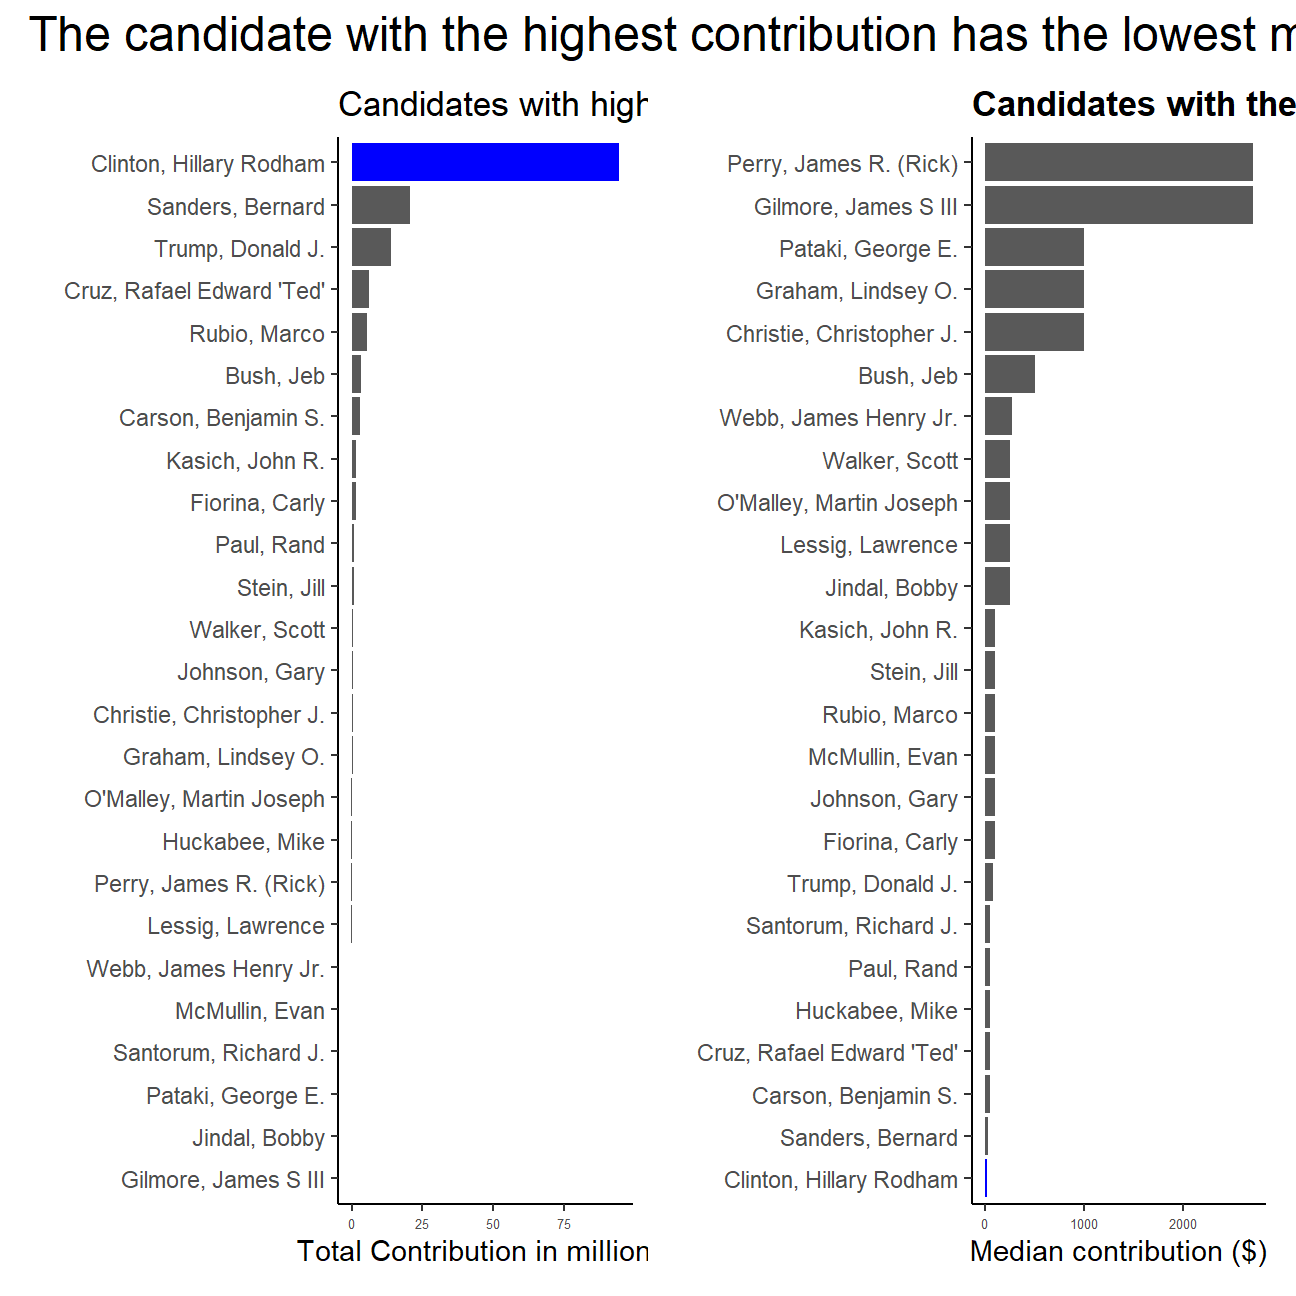
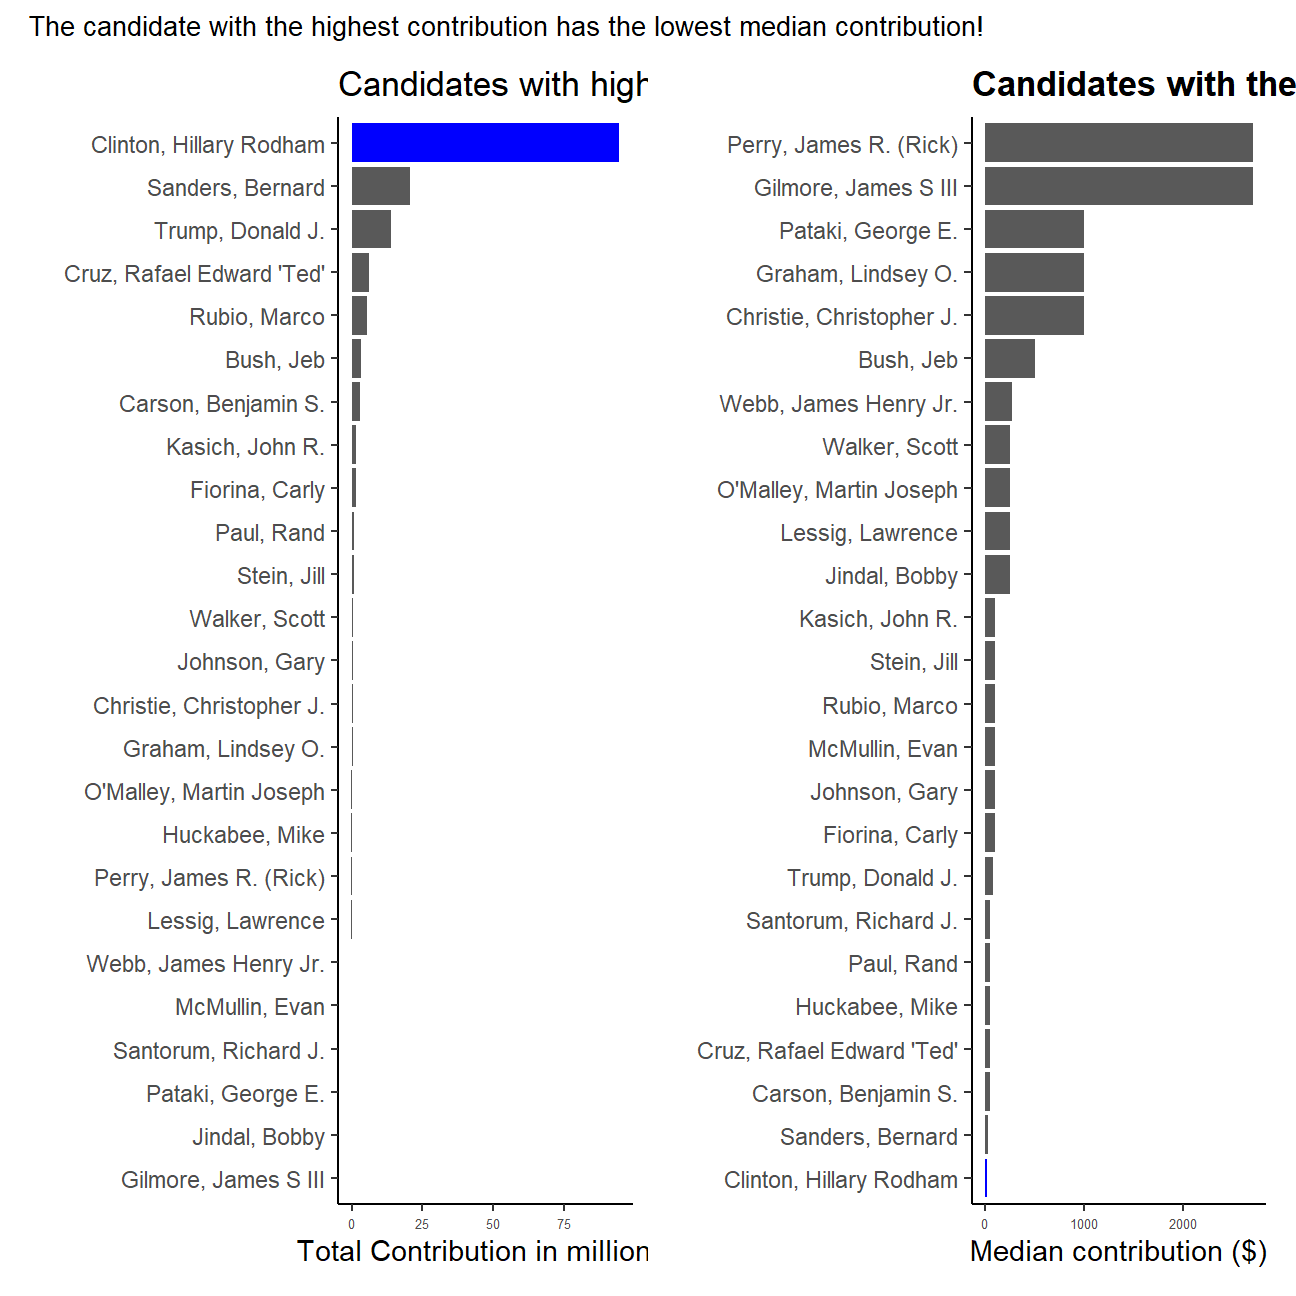
add blog

Changed region(s): [[0.0309, 0.0, 1.0, 0.8951], [0.0617, 0.6481, 0.0926, 0.679]]

diff --git a/public/blogs/blog5/index.html b/public/blogs/blog5/index.html
@@ -146,7 +146,7 @@ median_contrb</code></pre>
 patchwork&lt;-total_contrb + median_contrb
 patchwork +
   plot_annotation(title = &#39;The candidate with the highest contribution has the lowest median contribution!&#39;,
-                  theme = theme(plot.title = element_text(size = 18))) </code></pre>
+                  theme = theme(plot.title = element_text(size = 10))) </code></pre>
 <p><img src="/blogs/blog5_files/figure-html/unnamed-chunk-4-1.png" width="200%" style="display: block; margin: auto;" /></p>
 <pre class="r"><code>ZIPcodes = vroom::vroom(here::here(&quot;data&quot;,&quot;zip_code_database.csv&quot;))
 CA_contributors_join &lt;- merge(CA_contributors_2016,ZIPcodes, by = &quot;zip&quot;)
@@ -190,6 +190,8 @@ Trump_plot&lt;-ggplot(Trump, mapping = aes(x = total, y = reorder(primary_city,t
 patchwork_cand&lt;-Clinton_plot+Trump_plot
 patchwork_cand+plot_annotation(title=&quot;Which states contributed the most?&quot;)</code></pre>
 <p><img src="/blogs/blog5_files/figure-html/unnamed-chunk-4-2.png" width="200%" style="display: block; margin: auto;" /></p>
+<pre class="r"><code>wrap_plots(patchwork_cand,widths=6,heights=10)</code></pre>
+<p><img src="/blogs/blog5_files/figure-html/unnamed-chunk-4-3.png" width="200%" style="display: block; margin: auto;" /></p>
 </div>
 
                         </div>

diff --git a/content/blogs/blog5.html b/content/blogs/blog5.html
@@ -76,7 +76,7 @@ median_contrb</code></pre>
 patchwork&lt;-total_contrb + median_contrb
 patchwork +
   plot_annotation(title = &#39;The candidate with the highest contribution has the lowest median contribution!&#39;,
-                  theme = theme(plot.title = element_text(size = 18))) </code></pre>
+                  theme = theme(plot.title = element_text(size = 10))) </code></pre>
 <p><img src="/blogs/blog5_files/figure-html/unnamed-chunk-4-1.png" width="200%" style="display: block; margin: auto;" /></p>
 <pre class="r"><code>ZIPcodes = vroom::vroom(here::here(&quot;data&quot;,&quot;zip_code_database.csv&quot;))
 CA_contributors_join &lt;- merge(CA_contributors_2016,ZIPcodes, by = &quot;zip&quot;)
@@ -120,4 +120,6 @@ Trump_plot&lt;-ggplot(Trump, mapping = aes(x = total, y = reorder(primary_city,t
 patchwork_cand&lt;-Clinton_plot+Trump_plot
 patchwork_cand+plot_annotation(title=&quot;Which states contributed the most?&quot;)</code></pre>
 <p><img src="/blogs/blog5_files/figure-html/unnamed-chunk-4-2.png" width="200%" style="display: block; margin: auto;" /></p>
+<pre class="r"><code>wrap_plots(patchwork_cand,widths=6,heights=10)</code></pre>
+<p><img src="/blogs/blog5_files/figure-html/unnamed-chunk-4-3.png" width="200%" style="display: block; margin: auto;" /></p>
 </div>

diff --git a/public/blogs/index.html b/public/blogs/index.html
@@ -7,7 +7,7 @@
 	<meta name="description" content="Masters in Financial Analysis student at London Business School">
 	<meta name="author" content="Disha Sethi">
 	<meta name="generator" content="Hugo 0.75.1" />
-	<title>Lifestyle &middot; Portfolio Website for Disha</title>
+	<title>Content &middot; Portfolio Website for Disha</title>
 	<!-- Stylesheets -->
 	
 	<link rel="stylesheet" href="/css/main.css"/>
@@ -79,10 +79,10 @@
                         </span>
 			
                         <header class="major">
-                            <h1>Lifestyle</h1>
+                            <h1>Content</h1>
                         </header>
                         <div class="content">
-                            <p>My blogs about technology and lifestyle.</p>
+                            <p>My projects using R.</p>
 
                         </div>
                     </div>
@@ -92,7 +92,7 @@
                     
                     <section>
                         <a href="/blogs/blog9/" class="image">
-							<img src="/img/blogs/" alt="" data-position="center center" />
+							<img src="/img/blogs/pic05.jpg" alt="" data-position="center center" />
 						</a>
                         <div class="content">
                             <div class="inner">

diff --git a/public/blogs/blog9/index.html b/public/blogs/blog9/index.html
@@ -78,6 +78,8 @@
                                 <h1>About Me</h1>
                             </header>
                             
+                                <span class="image main"><img src="/img/blogs/pic05.jpg" alt="" /></span>
+                            
                             
 
 

diff --git a/content/blogs/blog9.html b/content/blogs/blog9.html
@@ -5,7 +5,7 @@ categories:
 date: "2017-10-31T21:28:43-05:00"
 description: "About Me"
 draft: false
-image: 
+image: pic05.jpg
 keywords: ""
 slug: blog9
 title: About Me

diff --git a/content/blogs/_index.md b/content/blogs/_index.md
@@ -3,7 +3,7 @@ date: "2017-10-31T22:27:21-05:00"
 draft: false
 image: pic02.jpg
 slug: blogs
-title: Lifestyle
+title: Content
 ---
 
-My blogs about technology and lifestyle.
+My projects using R. 
